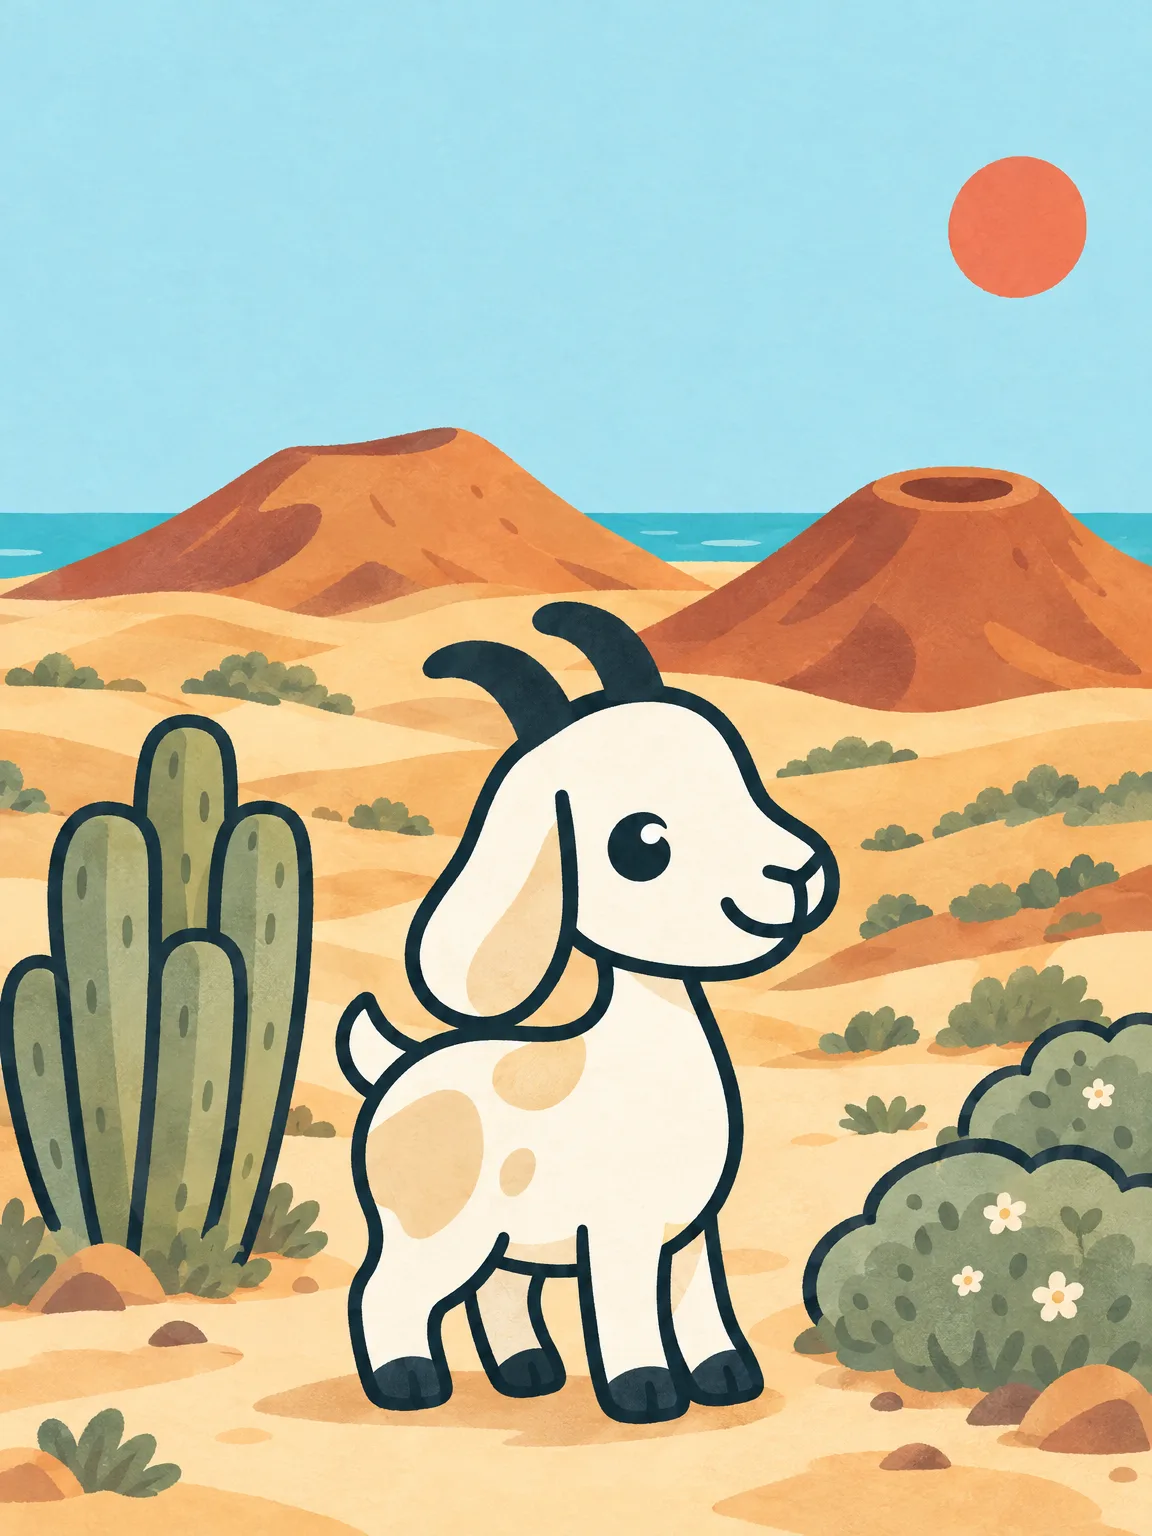
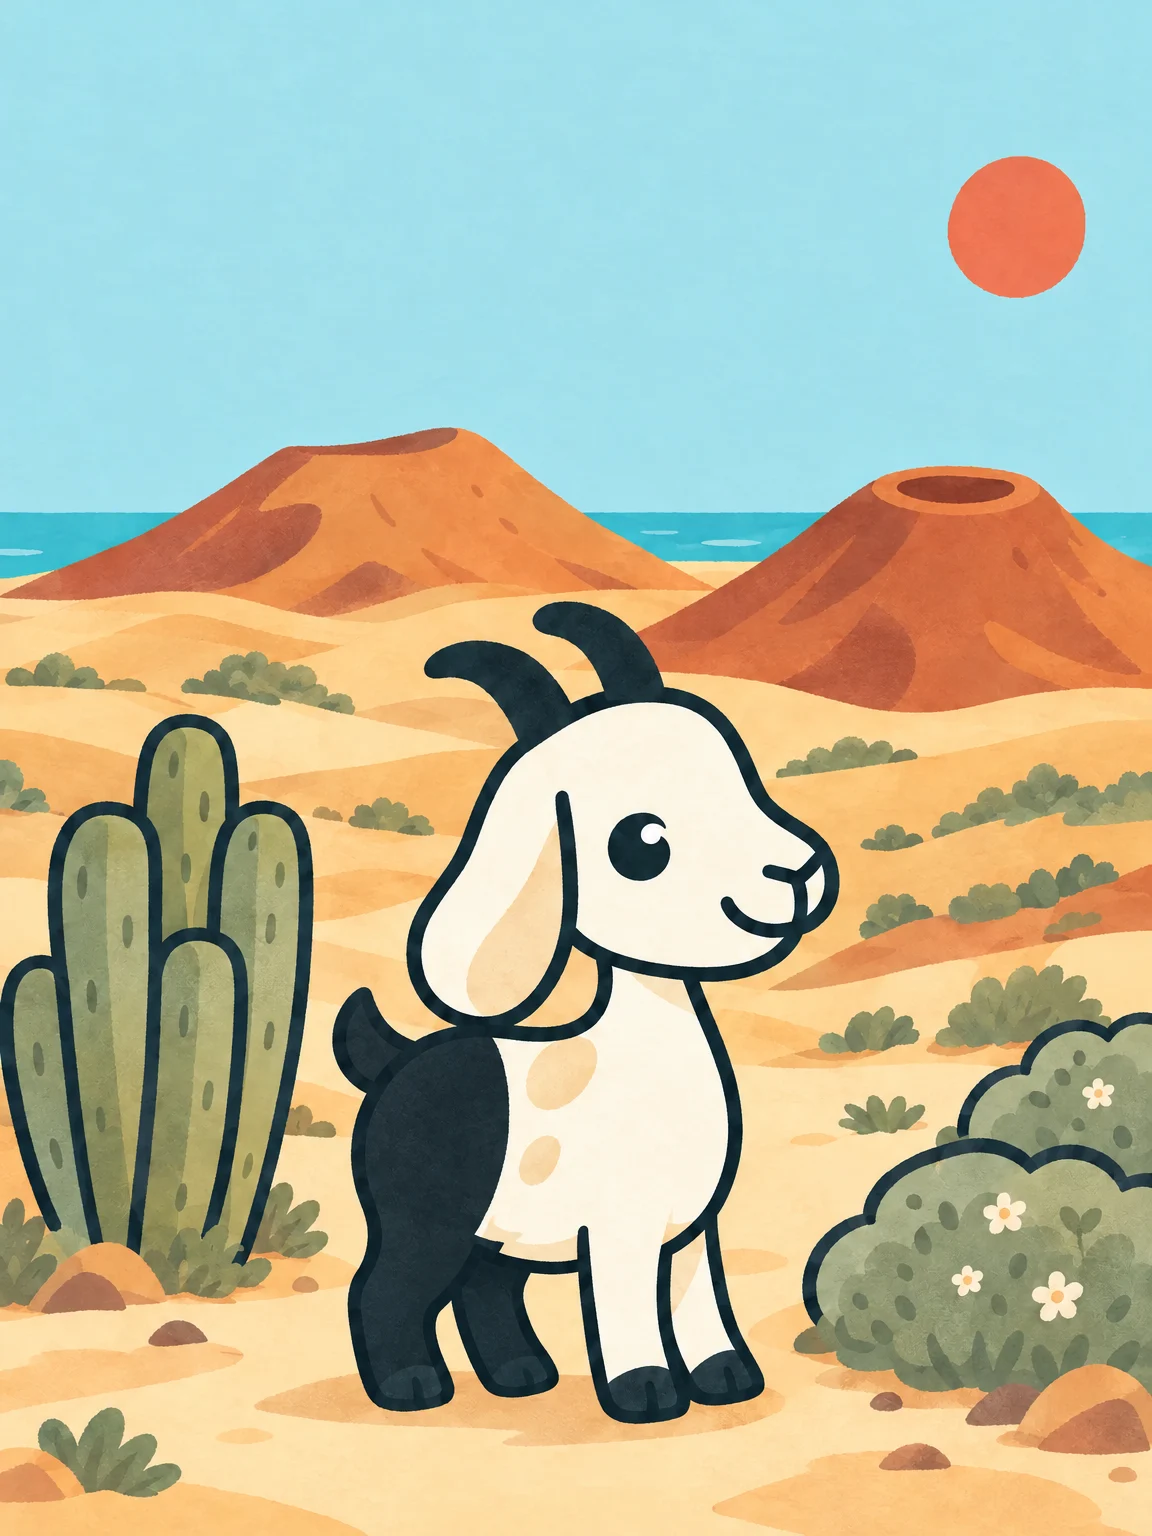
La Culeta: the Baifo goat with the black bum on the home page (#348)
- Redraw every home slideshow picture with the goat, phone and wide versions
- Redraw the happy, reading, waving and scene goats and the "Baifo is open!" popup goat
- Name La Culeta in the slideshow descriptions and the arrow back home, in all 5 languages
- Add the change notes and how to check them by hand

diff --git a/docs/changes/card-348.md b/docs/changes/card-348.md
@@ -1,0 +1,24 @@
+# Card 348: La Culeta, the Baifo goat with the black bum
+
+## What changed
+
+- **Every goat picture redrawn as La Culeta:** the same goat, scene and pose, but her rump, tail and the tops of her hind legs are black, in a side or three-quarter view so it shows. Same file names and sizes, cut-outs stay transparent with their sticker edge.
+  - Home slideshow `public/brand/hero/`: all pictures with the goat (tall and wide), and the Lobos cut-out `00-lobos-figure.webp` (scaled back onto its old spot, so it still stands on the sand).
+  - `public/brand/goat/`: happy, reading, waving and scene.
+  - The "Baifo is open!" offer picture `public/brand/offers/opening.jpg` (the party goat, in its line-art style).
+- **Her name in the texts** that already talk about the goat, in all 5 `brand/messages/*.json`: the slideshow alt texts ("La Culeta reads the newspaper…", the Lobos one says who she is) and the arrow back home, `PULL_UP_HOME` ("Back to La Culeta").
+
+## How it was made
+
+Each picture was sent to the OpenAI image edit endpoint (`editImage` in `lib/studio/openai.mjs`, like the `baifo-art` skill) as its own reference, with the prompt "redraw this picture as faithfully as possible, change only the goat: her back end is black (#1E2A2F), side or three-quarter view, same activity". Results were resized to the old sizes and saved as WebP/JPEG.
+
+## Not changed
+
+- Head-only goats can't show a bum: the header logo goat (`logo-alive*.svg`), the loader / contact goat (`loader.png`), the logo and icons. The category ring has no goat (a windmill).
+- `hero-goat*.jpg` (the old realistic goat, not shown) and the print stickers.
+
+## How to check
+
+Open `/` at desktop, 375 and 320 px, light and dark: the reading goat in front of Lobos has a black bum; wait 7 s for the next pictures. The "Baifo is open!" toast shows the party goat with a black bum.
+
+On `/explore`, scroll to the top and pull up: the arrow back home reads "Back to La Culeta" (switch languages to see the other four). Screen readers read her name in the slideshow alt texts.
